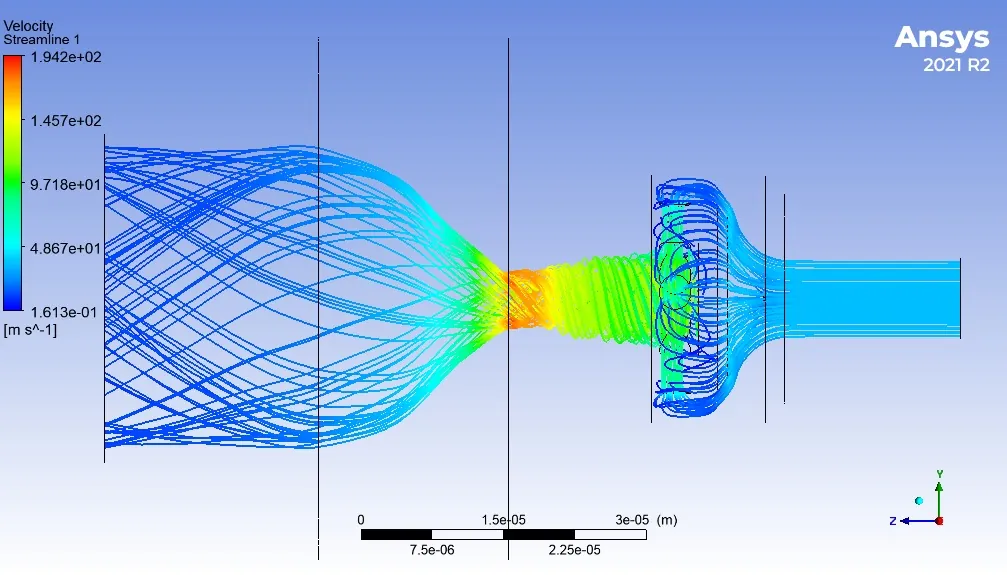
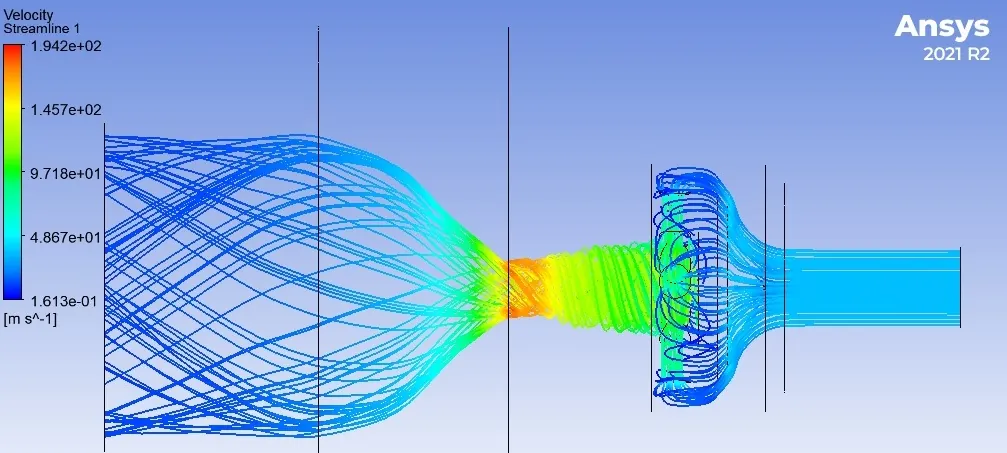
chore(site): tidy publication, schema and Boitatá before push
Exclude docs/, screenshots/, node_modules/ and *.mjs from the
published site, and drop the IT & Cyber Markdown résumés and its
llms.txt entry while the page is noindex (SKIP flag in the generator).

In JSON-LD, list EESC-USP as affiliation instead of alumniOf, since
the degree is in progress, and add author affiliations to the EPTT
paper, now shown on the Aero card.

State that the Boitatá vortex injector was designed by the author,
remove the Mach figure and reconvert the two cropped CFD images.

Refs: S5.1

diff --git a/aero/index.html b/aero/index.html
@@ -39,14 +39,16 @@
     "url": "https://igor-de-melo.github.io/aero/",
     "description": "Aeronautical Engineering student at EESC-USP (in progress), with a year of exchange at École Centrale de Marseille and a special studies certificate in Computational Fluid Dynamics (CFD) at ICMC-USP. Worked on propulsion, flight mechanics, aerostructures and systems engineering in competition teams, with three titles at the Latin American Space Challenge (LASC), and currently manages an autonomous fixed-wing UAV (unmanned aerial vehicle) project at the SEMEAR group. Research in turbulent flow simulation (LES), atmospheric modeling (WRF) and unsteady aerodynamic loads.",
     "email": "igor_amelo@usp.br",
+    "affiliation": [
+     {
+      "@type": "CollegeOrUniversity",
+      "name": "São Carlos School of Engineering, University of São Paulo"
+     }
+    ],
     "alumniOf": [
      {
       "@type": "CollegeOrUniversity",
       "name": "École Centrale de Marseille"
-     },
-     {
-      "@type": "CollegeOrUniversity",
-      "name": "São Carlos School of Engineering, University of São Paulo"
      }
     ],
     "knowsAbout": [
@@ -103,19 +105,35 @@
    "author": [
     {
      "@type": "Person",
-     "name": "Igor Augusto de Melo"
+     "name": "Igor Augusto de Melo",
+     "affiliation": {
+      "@type": "Organization",
+      "name": "EESC-USP"
+     }
     },
     {
      "@type": "Person",
-     "name": "Livia S. Freire"
+     "name": "Livia S. Freire",
+     "affiliation": {
+      "@type": "Organization",
+      "name": "ICMC-USP"
+     }
     },
     {
      "@type": "Person",
-     "name": "Leandro Franco de Souza"
+     "name": "Leandro Franco de Souza",
+     "affiliation": {
+      "@type": "Organization",
+      "name": "ICMC-USP"
+     }
     },
     {
      "@type": "Person",
-     "name": "Matheus Tozo de Araujo"
+     "name": "Matheus Tozo de Araujo",
+     "affiliation": {
+      "@type": "Organization",
+      "name": "IFPR"
+     }
     }
    ],
    "isPartOf": {
@@ -589,20 +607,19 @@
 
       <article class="project glass media-item" data-item="project">
         <figure class="gallery media-item__fig" data-gallery>
-          <button type="button" class="gallery-main" aria-haspopup="dialog"><img src="../assets/img/topus/boitata-injector-velocity.webp" width="1007" height="575" alt="Campo de velocidade, em m/s em cores num corte do injetor, com escala de cores e a marca Ansys" data-alt-pt-br="Campo de velocidade, em m/s em cores num corte do injetor, com escala de cores e a marca Ansys" data-alt-en="Colored field of velocity, in m/s in a section of the injector, with a color scale and the Ansys mark" data-alt-fr="Champ de vitesse, en m/s en couleurs dans une coupe de l’injecteur, avec une échelle de couleurs et la marque Ansys" loading="lazy"><span class="sr"><span lang="pt-BR">Ampliar imagem</span><span lang="en">Enlarge image</span><span lang="fr">Agrandir l’image</span></span></button>
+          <button type="button" class="gallery-main" aria-haspopup="dialog"><img src="../assets/img/topus/boitata-injector-velocity.webp" width="1007" height="454" alt="Campo de velocidade, em m/s em cores num corte do injetor, com escala de cores e a marca Ansys" data-alt-pt-br="Campo de velocidade, em m/s em cores num corte do injetor, com escala de cores e a marca Ansys" data-alt-en="Colored field of velocity, in m/s in a section of the injector, with a color scale and the Ansys mark" data-alt-fr="Champ de vitesse, en m/s en couleurs dans une coupe de l’injecteur, avec une échelle de couleurs et la marque Ansys" loading="lazy"><span class="sr"><span lang="pt-BR">Ampliar imagem</span><span lang="en">Enlarge image</span><span lang="fr">Agrandir l’image</span></span></button>
           <div class="gallery-thumbs">
-            <button type="button" class="gallery-thumb" aria-pressed="true" data-src="../assets/img/topus/boitata-injector-velocity.webp" data-w="1007" data-h="575" data-cap-pt-br="CFD do injetor: velocidade" data-cap-en="Injector CFD: velocity" data-cap-fr="CFD de l’injecteur&nbsp;: vitesse"><img src="../assets/img/topus/boitata-injector-velocity.webp" width="1007" height="575" alt="Campo de velocidade, em m/s em cores num corte do injetor, com escala de cores e a marca Ansys" data-alt-pt-br="Campo de velocidade, em m/s em cores num corte do injetor, com escala de cores e a marca Ansys" data-alt-en="Colored field of velocity, in m/s in a section of the injector, with a color scale and the Ansys mark" data-alt-fr="Champ de vitesse, en m/s en couleurs dans une coupe de l’injecteur, avec une échelle de couleurs et la marque Ansys" loading="lazy"><span class="sr"><span lang="pt-BR">Ver imagem 1</span><span lang="en">Show image 1</span><span lang="fr">Voir l’image 1</span></span></button>
-            <button type="button" class="gallery-thumb" aria-pressed="false" data-src="../assets/img/topus/boitata-injector-streamlines.webp" data-w="1007" data-h="575" data-cap-pt-br="CFD do injetor: linhas de corrente" data-cap-en="Injector CFD: streamlines" data-cap-fr="CFD de l’injecteur&nbsp;: lignes de courant"><img src="../assets/img/topus/boitata-injector-streamlines.webp" width="1007" height="575" alt="Linhas de corrente coloridas pela velocidade, em m/s, que convergem para uma garganta e giram depois dela, com a marca Ansys" data-alt-pt-br="Linhas de corrente coloridas pela velocidade, em m/s, que convergem para uma garganta e giram depois dela, com a marca Ansys" data-alt-en="Streamlines colored by velocity, in m/s, converging into a throat and swirling after it, with the Ansys mark" data-alt-fr="Lignes de courant colorées par la vitesse, en m/s, qui convergent vers un col puis tourbillonnent, avec la marque Ansys" loading="lazy"><span class="sr"><span lang="pt-BR">Ver imagem 2</span><span lang="en">Show image 2</span><span lang="fr">Voir l’image 2</span></span></button>
-            <button type="button" class="gallery-thumb" aria-pressed="false" data-src="../assets/img/topus/boitata-injector-mach.webp" data-w="953" data-h="559" data-cap-pt-br="CFD do injetor: número de Mach" data-cap-en="Injector CFD: Mach number" data-cap-fr="CFD de l’injecteur&nbsp;: nombre de Mach"><img src="../assets/img/topus/boitata-injector-mach.webp" width="953" height="559" alt="Campo de número de Mach em cores num corte do injetor, com escala de cores e a marca Ansys" data-alt-pt-br="Campo de número de Mach em cores num corte do injetor, com escala de cores e a marca Ansys" data-alt-en="Colored field of Mach number in a section of the injector, with a color scale and the Ansys mark" data-alt-fr="Champ de nombre de Mach en couleurs dans une coupe de l’injecteur, avec une échelle de couleurs et la marque Ansys" loading="lazy"><span class="sr"><span lang="pt-BR">Ver imagem 3</span><span lang="en">Show image 3</span><span lang="fr">Voir l’image 3</span></span></button>
+            <button type="button" class="gallery-thumb" aria-pressed="true" data-src="../assets/img/topus/boitata-injector-velocity.webp" data-w="1007" data-h="454" data-cap-pt-br="CFD do injetor: velocidade" data-cap-en="Injector CFD: velocity" data-cap-fr="CFD de l’injecteur&nbsp;: vitesse"><img src="../assets/img/topus/boitata-injector-velocity.webp" width="1007" height="454" alt="Campo de velocidade, em m/s em cores num corte do injetor, com escala de cores e a marca Ansys" data-alt-pt-br="Campo de velocidade, em m/s em cores num corte do injetor, com escala de cores e a marca Ansys" data-alt-en="Colored field of velocity, in m/s in a section of the injector, with a color scale and the Ansys mark" data-alt-fr="Champ de vitesse, en m/s en couleurs dans une coupe de l’injecteur, avec une échelle de couleurs et la marque Ansys" loading="lazy"><span class="sr"><span lang="pt-BR">Ver imagem 1</span><span lang="en">Show image 1</span><span lang="fr">Voir l’image 1</span></span></button>
+            <button type="button" class="gallery-thumb" aria-pressed="false" data-src="../assets/img/topus/boitata-injector-streamlines.webp" data-w="1007" data-h="453" data-cap-pt-br="CFD do injetor: linhas de corrente" data-cap-en="Injector CFD: streamlines" data-cap-fr="CFD de l’injecteur&nbsp;: lignes de courant"><img src="../assets/img/topus/boitata-injector-streamlines.webp" width="1007" height="453" alt="Linhas de corrente coloridas pela velocidade, em m/s, que convergem para uma garganta e giram depois dela, com a marca Ansys" data-alt-pt-br="Linhas de corrente coloridas pela velocidade, em m/s, que convergem para uma garganta e giram depois dela, com a marca Ansys" data-alt-en="Streamlines colored by velocity, in m/s, converging into a throat and swirling after it, with the Ansys mark" data-alt-fr="Lignes de courant colorées par la vitesse, en m/s, qui convergent vers un col puis tourbillonnent, avec la marque Ansys" loading="lazy"><span class="sr"><span lang="pt-BR">Ver imagem 2</span><span lang="en">Show image 2</span><span lang="fr">Voir l’image 2</span></span></button>
           </div>
-          <figcaption><span lang="pt-BR"><span class="gallery-c">CFD do injetor: velocidade</span><span class="gallery-n">, imagem <span class="gallery-i">1</span> de 3</span></span><span lang="en"><span class="gallery-c">Injector CFD: velocity</span><span class="gallery-n">, image <span class="gallery-i">1</span> of 3</span></span><span lang="fr"><span class="gallery-c">CFD de l’injecteur&nbsp;: vitesse</span><span class="gallery-n">, image <span class="gallery-i">1</span> sur 3</span></span></figcaption>
+          <figcaption><span lang="pt-BR"><span class="gallery-c">CFD do injetor: velocidade</span><span class="gallery-n">, imagem <span class="gallery-i">1</span> de 2</span></span><span lang="en"><span class="gallery-c">Injector CFD: velocity</span><span class="gallery-n">, image <span class="gallery-i">1</span> of 2</span></span><span lang="fr"><span class="gallery-c">CFD de l’injecteur&nbsp;: vitesse</span><span class="gallery-n">, image <span class="gallery-i">1</span> sur 2</span></span></figcaption>
         </figure>
         <div class="project-main">
           <h3 data-f="title"><span lang="pt-BR">Motor híbrido Boitatá</span><span lang="en">Boitatá hybrid rocket motor</span><span lang="fr">Moteur hybride Boitatá</span></h3>
           <p class="org" data-f="org">TOPUS<span class="org-sep t-only">, </span><span class="org-sep s-only"> · </span><span class="org-p" data-f="period"><time datetime="2020">2020</time> – <time datetime="2023">2023</time></span></p>
           <dl class="par">
             <div><dt><span lang="pt-BR">Problema</span><span lang="en">Problem</span><span lang="fr">Problème</span></dt><dd data-f="desc"><span lang="pt-BR">Levar o oxidante com segurança até a câmara de combustão de um motor-foguete híbrido.</span><span lang="en">Deliver the oxidizer safely to the combustion chamber of a hybrid rocket motor.</span><span lang="fr">Acheminer l’oxydant en toute sécurité jusqu’à la chambre de combustion d’un moteur-fusée hybride.</span></dd></div>
-            <div><dt><span lang="pt-BR">Abordagem</span><span lang="en">Approach</span><span lang="fr">Approche</span></dt><dd data-f="desc"><span lang="pt-BR">Na equipe de injeção de oxidante, projetei e testei o tanque, a tubulação e as válvulas, e trabalhei no projeto do injetor de vórtice para óxido nitroso, com o tanque de abastecimento a 60&nbsp;bar e a câmara de combustão a 30&nbsp;bar. Fiz as simulações de CFD do injetor no ANSYS CFX.</span><span lang="en">On the oxidizer injection team, I designed and tested the tank, piping and valves, and worked on the design of the swirl injector for nitrous oxide, with the supply tank at 60&nbsp;bar and the combustion chamber at 30&nbsp;bar. I ran the CFD simulations of the injector in ANSYS CFX.</span><span lang="fr">Au sein de l’équipe injection d’oxydant, j’ai conçu et testé le réservoir, la tuyauterie et les vannes, et j’ai travaillé à la conception de l’injecteur tourbillonnaire pour le protoxyde d’azote, avec le réservoir d’alimentation à 60&nbsp;bar et la chambre de combustion à 30&nbsp;bar. J’ai réalisé les simulations CFD de l’injecteur sous ANSYS CFX.</span></dd></div>
+            <div><dt><span lang="pt-BR">Abordagem</span><span lang="en">Approach</span><span lang="fr">Approche</span></dt><dd data-f="desc"><span lang="pt-BR">Na equipe de injeção de oxidante, projetei e testei o tanque, a tubulação e as válvulas, e projetei o injetor de vórtice para óxido nitroso, com o tanque de abastecimento a 60&nbsp;bar e a câmara de combustão a 30&nbsp;bar. Fiz as simulações de CFD do injetor no ANSYS CFX.</span><span lang="en">On the oxidizer injection team, I designed and tested the tank, piping and valves, and I designed the vortex injector for nitrous oxide, with the supply tank at 60&nbsp;bar and the combustion chamber at 30&nbsp;bar. I ran the CFD simulations of the injector in ANSYS CFX.</span><span lang="fr">Au sein de l’équipe injection d’oxydant, j’ai conçu et testé le réservoir, la tuyauterie et les vannes, et j’ai conçu l’injecteur à vortex pour le protoxyde d’azote, avec le réservoir d’alimentation à 60&nbsp;bar et la chambre de combustion à 30&nbsp;bar. J’ai réalisé les simulations CFD de l’injecteur sous ANSYS CFX.</span></dd></div>
             <div class="par-result"><dt><span lang="pt-BR">Resultado</span><span lang="en">Result</span><span lang="fr">Résultat</span></dt><dd data-f="desc"><span lang="pt-BR">O projeto recebeu, em 2020, uma bolsa de Bancada de Testes da Agência Espacial Brasileira (AEB).</span><span lang="en">The project received a test stand grant from the Brazilian Space Agency (AEB) in 2020.</span><span lang="fr">Le projet a obtenu en 2020 un financement «&nbsp;Banc d’essai&nbsp;» de l’Agence spatiale brésilienne (AEB).</span></dd></div>
             <div class="par-stack"><dt><span lang="pt-BR">Stack</span><span lang="en">Stack</span><span lang="fr">Stack</span></dt><dd>
               <ul class="chips" data-f="stack" lang="pt-BR"><li>ANSYS CFX</li><li>CFD</li><li>Termodinâmica</li><li>Modelagem numérica</li><li>Ensaios experimentais</li></ul>
@@ -639,9 +656,9 @@
             </span>
           </a>
           <h3 data-f="title"><span lang="pt-BR">Simulação de escoamentos turbulentos</span><span lang="en">Turbulent flow simulation</span><span lang="fr">Simulation d’écoulements turbulents</span></h3>
-          <p data-f="desc" lang="pt-BR">Simulação de grandes escalas (LES) de escoamento turbulento em canal com força de Coriolis, com número de Reynolds de atrito 180, malha LES de 64 × 64 × 64 e quatro números de rotação (Ro) (0; 0,018; 0,054; 0,091), comparada com simulação numérica direta (DNS). Artigo no EPTT 2024. Autores: Igor Augusto de Melo, Livia S. Freire, Leandro Franco de Souza e Matheus Tozo de Araujo. Desenvolvimento e execução de rotinas numéricas em ambiente de HPC.</p>
-          <p data-f="desc" lang="en">Large-eddy simulation (LES) of turbulent channel flow with Coriolis force, at friction Reynolds number 180, on a 64 × 64 × 64 LES grid and four rotation numbers (Ro) (0, 0.018, 0.054, 0.091), compared with direct numerical simulation (DNS). Paper at EPTT 2024. Authors: Igor Augusto de Melo, Livia S. Freire, Leandro Franco de Souza and Matheus Tozo de Araujo. Development and execution of numerical routines in HPC environments.</p>
-          <p data-f="desc" lang="fr">Simulation des grandes échelles (LES) d’un écoulement turbulent en canal avec force de Coriolis, à un nombre de Reynolds de frottement de 180, avec un maillage LES de 64 × 64 × 64 et quatre nombres de rotation (Ro) (0&nbsp;; 0,018&nbsp;; 0,054&nbsp;; 0,091), comparée à la simulation numérique directe (DNS). Article à l’EPTT 2024. Auteurs&nbsp;: Igor Augusto de Melo, Livia S. Freire, Leandro Franco de Souza et Matheus Tozo de Araujo. Développement et exécution de routines numériques en environnement HPC.</p>
+          <p data-f="desc" lang="pt-BR">Simulação de grandes escalas (LES) de escoamento turbulento em canal com força de Coriolis, com número de Reynolds de atrito 180, malha LES de 64 × 64 × 64 e quatro números de rotação (Ro) (0; 0,018; 0,054; 0,091), comparada com simulação numérica direta (DNS). Artigo no EPTT 2024. Autores: Igor Augusto de Melo (EESC-USP), Livia S. Freire e Leandro Franco de Souza (ICMC-USP) e Matheus Tozo de Araujo (IFPR). Desenvolvimento e execução de rotinas numéricas em ambiente de HPC.</p>
+          <p data-f="desc" lang="en">Large-eddy simulation (LES) of turbulent channel flow with Coriolis force, at friction Reynolds number 180, on a 64 × 64 × 64 LES grid and four rotation numbers (Ro) (0, 0.018, 0.054, 0.091), compared with direct numerical simulation (DNS). Paper at EPTT 2024. Authors: Igor Augusto de Melo (EESC-USP), Livia S. Freire and Leandro Franco de Souza (ICMC-USP), and Matheus Tozo de Araujo (IFPR). Development and execution of numerical routines in HPC environments.</p>
+          <p data-f="desc" lang="fr">Simulation des grandes échelles (LES) d’un écoulement turbulent en canal avec force de Coriolis, à un nombre de Reynolds de frottement de 180, avec un maillage LES de 64 × 64 × 64 et quatre nombres de rotation (Ro) (0&nbsp;; 0,018&nbsp;; 0,054&nbsp;; 0,091), comparée à la simulation numérique directe (DNS). Article à l’EPTT 2024. Auteurs&nbsp;: Igor Augusto de Melo (EESC-USP), Livia S. Freire et Leandro Franco de Souza (ICMC-USP) et Matheus Tozo de Araujo (IFPR). Développement et exécution de routines numériques en environnement HPC.</p>
           <ul class="chips" data-f="stack" lang="pt-BR"><li>LES</li><li>Modelos de submalha</li><li>Fortran</li><li>HPC</li><li>Linux</li></ul>
           <ul class="chips" data-f="stack" lang="en"><li>LES</li><li>Subgrid-scale models</li><li>Fortran</li><li>HPC</li><li>Linux</li></ul>
           <ul class="chips" data-f="stack" lang="fr"><li>LES</li><li>Modèles de sous-maille</li><li>Fortran</li><li>HPC</li><li>Linux</li></ul>

diff --git a/it-security/index.html b/it-security/index.html
@@ -11,9 +11,6 @@
 <meta property="og:description" content="Igor Augusto de Melo, disponível para vagas júnior em cibersegurança: Linux, Bash, SSH, OAuth2, Python e automação em servidores na nuvem.">
 <meta name="robots" content="noindex">
 <link rel="canonical" href="https://igor-de-melo.github.io/it-security/">
-<link rel="alternate" type="text/markdown" hreflang="pt-BR" href="cv.pt-BR.md">
-<link rel="alternate" type="text/markdown" hreflang="en" href="cv.en.md">
-<link rel="alternate" type="text/markdown" hreflang="fr" href="cv.fr.md">
 <link rel="icon" type="image/svg+xml" href="../assets/favicon.svg">
 <meta property="og:title" content="Igor Augusto de Melo | TI e Cibersegurança">
 <meta property="og:type" content="website">
@@ -39,14 +36,16 @@
     "url": "https://igor-de-melo.github.io/it-security/",
     "description": "Aeronautical Engineering student at EESC-USP (in progress), with daily use of Linux and the command line, writing Bash and Python scripts to run and post-process WRF simulations. Builds a personal AI-assisted email triage system with Python automation.",
     "email": "igor_amelo@usp.br",
+    "affiliation": [
+     {
+      "@type": "CollegeOrUniversity",
+      "name": "São Carlos School of Engineering, University of São Paulo"
+     }
+    ],
     "alumniOf": [
      {
       "@type": "CollegeOrUniversity",
       "name": "École Centrale de Marseille"
-     },
-     {
-      "@type": "CollegeOrUniversity",
-      "name": "São Carlos School of Engineering, University of São Paulo"
      }
     ],
     "knowsAbout": [

diff --git a/data/index.html b/data/index.html
@@ -39,14 +39,16 @@
     "url": "https://igor-de-melo.github.io/data/",
     "description": "Aeronautical Engineering student at EESC-USP (in progress), transitioning into data and IT. Experience as a Data Analyst at Pilea Labs, designing and building the MySQL databases (on Google Cloud) and SQL queries behind the platform’s lists, tables and charts. Machine Learning and Reinforcement Learning courses (Data ICMC-USP, 2025) and hands-on scientific computing in Monte Carlo simulation, optimization and uncertainty analysis. Builds personal automation projects, such as an AI-assisted email triage system.",
     "email": "igor_amelo@usp.br",
+    "affiliation": [
+     {
+      "@type": "CollegeOrUniversity",
+      "name": "São Carlos School of Engineering, University of São Paulo"
+     }
+    ],
     "alumniOf": [
      {
       "@type": "CollegeOrUniversity",
       "name": "École Centrale de Marseille"
-     },
-     {
-      "@type": "CollegeOrUniversity",
-      "name": "São Carlos School of Engineering, University of São Paulo"
      }
     ],
     "knowsAbout": [

diff --git a/CLAUDE.md b/CLAUDE.md
@@ -19,7 +19,7 @@ Site estático (GitHub Pages, repositório de usuário). Sem build, sem framewor
 - Home: `index.html` e `index.template.html` são iguais e editados juntos. Animações da cadeia só com transform/opacity; colormap viridis.
 - Visões (docs/simple-view-spec.md): `<html data-view="simple|themed">`, posto por script no `<head>` (?view= > localStorage "view" > themed). A Home é sempre Temático (ignora `?view=` e a preferência salva, não tem seletor); a entrada para o Simplificado é o botão `.hcard-simple` abaixo de cada cartão (`?view=simple`), e o cartão abre `?view=themed`. O Simplificado é a camada `[data-view="simple"]` no fim de `assets/style.css`: tokens neutros, sem animação nem decoração. Todo componente novo precisa ficar legível nas duas visões. `.s-only` só aparece no Simplificado e `.t-only` só no Temático; `data-simple-before="id"` move a seção para antes desse id no Simplificado (`assets/site.js`). O CV das páginas de área são os blocos "S2", "S2.1" e "S3" do CSS (neutros `--n-*`, um acento por página em `--accent`, `--tint` e `--ac30`; régua `.s-nav` com scroll-spy; sem animação nem transição); Dados e TI entram no S3.
 - Campos do CV (base do Simplificado e dos arquivos para máquinas): nas três páginas de área, cada seção tem `data-section="summary|skills|experience|projects|research|education|courses|languages|contact|volunteering"`, cada item tem `data-item="experience|project|research|education|course|skill-group|volunteering"` e cada valor tem `data-f="title|org|place|period|status|desc|bullet|stack|link"` (`status` é o estado de um projeto, como "Em desenvolvimento"; projeto com `status` fica sem `period`). O resumo do CV é um bloco `.s-summary.s-only` com `data-section="summary"` dentro de Sobre (o primeiro parágrafo do Sobre é `.t-only` e não tem `data-f`). Cada página de área tem dois `h1`: o título da área (`.t-only`) e o nome (`.s-name.s-only`), com o título da área repetido em `p.s-area.s-only`. Datas em `<time datetime="AAAA-MM">` (só o ano quando não há mês; "atual" sem `datetime`). Sintaxe de código (`<span class="sx">`, `.fn`, `.k`), prompts e rótulos de painel nunca recebem `data-f`; em TI e Ciber o período é um `<p class="when s-only" data-f="period">` próprio, porque o rótulo do painel é decorativo. Trechos de código de exemplo ficam em `<details class="sample" open>` com `<summary class="s-only">` (aberto no Temático, recolhido no Simplificado pelo `site.js`). O Simplificado de Dados e TI e Ciber é o bloco "S3" do CSS e usa esses atributos como seletores; `check-parity` confere a contagem por língua e `check-views`, que nenhum campo fica oculto. Item novo: marcar os campos nas três línguas.
-- Camada para máquinas: `tools/build-cv.mjs` (`npm run build:cv`) lê os campos `data-f` visíveis no Simplificado e gera `<área>/cv.pt-BR.md`, `cv.en.md` e `cv.fr.md` e o bloco JSON-LD de cada página de área (ProfilePage > Person, e ScholarlyArticle quando o cartão do artigo está na página). Depois de mudar conteúdo de uma página de área, rodar o gerador e commitar a saída; `check-cv-sync` falha se estiver desatualizada. Regra: máquina e humano leem o mesmo texto (nada no Markdown, no JSON-LD nem no `llms.txt` que não esteja visível na página; sem telefone; e-mail só o que a página mostra). `llms.txt`, `robots.txt` e `sitemap.xml` são escritos à mão.
+- Camada para máquinas: `tools/build-cv.mjs` (`npm run build:cv`) lê os campos `data-f` visíveis no Simplificado e gera `<área>/cv.pt-BR.md`, `cv.en.md` e `cv.fr.md` e o bloco JSON-LD de cada página de área (menos as listadas em `SKIP` no gerador: hoje `it-security`, enquanto tiver noindex) (ProfilePage > Person, e ScholarlyArticle quando o cartão do artigo está na página). Depois de mudar conteúdo de uma página de área, rodar o gerador e commitar a saída; `check-cv-sync` falha se estiver desatualizada. Regra: máquina e humano leem o mesmo texto (nada no Markdown, no JSON-LD nem no `llms.txt` que não esteja visível na página; sem telefone; e-mail só o que a página mostra). `llms.txt`, `robots.txt` e `sitemap.xml` são escritos à mão.
 - Tipografia: todo font-size usa os tokens `--fs-*` e `--lh-*` (exceções: hero da Home e desenhos em SVG, dump hexadecimal e retrato ASCII).
 
 ## Commits

diff --git a/aero/cv.fr.md b/aero/cv.fr.md
@@ -108,7 +108,7 @@ TOPUS · 2020 – 2023
 
 **Problème :** Acheminer l’oxydant en toute sécurité jusqu’à la chambre de combustion d’un moteur-fusée hybride.
 
-**Approche :** Au sein de l’équipe injection d’oxydant, j’ai conçu et testé le réservoir, la tuyauterie et les vannes, et j’ai travaillé à la conception de l’injecteur tourbillonnaire pour le protoxyde d’azote, avec le réservoir d’alimentation à 60 bar et la chambre de combustion à 30 bar. J’ai réalisé les simulations CFD de l’injecteur sous ANSYS CFX.
+**Approche :** Au sein de l’équipe injection d’oxydant, j’ai conçu et testé le réservoir, la tuyauterie et les vannes, et j’ai conçu l’injecteur à vortex pour le protoxyde d’azote, avec le réservoir d’alimentation à 60 bar et la chambre de combustion à 30 bar. J’ai réalisé les simulations CFD de l’injecteur sous ANSYS CFX.
 
 **Résultat :** Le projet a obtenu en 2020 un financement « Banc d’essai » de l’Agence spatiale brésilienne (AEB).
 
@@ -122,7 +122,7 @@ ICMC-USP, bourse FAPESP · juil. 2023 – déc. 2024
 
 - [Article à l’EPTT 2024 (PDF)](https://igor-de-melo.github.io/assets/docs/EPTT2024_paper.pdf): Turbulent Channel flow with Coriolis force using Large-Eddy Simulation. Article, EPTT 2024, en anglais.
 
-Simulation des grandes échelles (LES) d’un écoulement turbulent en canal avec force de Coriolis, à un nombre de Reynolds de frottement de 180, avec un maillage LES de 64 × 64 × 64 et quatre nombres de rotation (Ro) (0 ; 0,018 ; 0,054 ; 0,091), comparée à la simulation numérique directe (DNS). Article à l’EPTT 2024. Auteurs : Igor Augusto de Melo, Livia S. Freire, Leandro Franco de Souza et Matheus Tozo de Araujo. Développement et exécution de routines numériques en environnement HPC.
+Simulation des grandes échelles (LES) d’un écoulement turbulent en canal avec force de Coriolis, à un nombre de Reynolds de frottement de 180, avec un maillage LES de 64 × 64 × 64 et quatre nombres de rotation (Ro) (0 ; 0,018 ; 0,054 ; 0,091), comparée à la simulation numérique directe (DNS). Article à l’EPTT 2024. Auteurs : Igor Augusto de Melo (EESC-USP), Livia S. Freire et Leandro Franco de Souza (ICMC-USP) et Matheus Tozo de Araujo (IFPR). Développement et exécution de routines numériques en environnement HPC.
 
 Stack : LES, Modèles de sous-maille, Fortran, HPC, Linux
 

diff --git a/aero/cv.pt-BR.md b/aero/cv.pt-BR.md
@@ -108,7 +108,7 @@ TOPUS · 2020 – 2023
 
 **Problema:** Levar o oxidante com segurança até a câmara de combustão de um motor-foguete híbrido.
 
-**Abordagem:** Na equipe de injeção de oxidante, projetei e testei o tanque, a tubulação e as válvulas, e trabalhei no projeto do injetor de vórtice para óxido nitroso, com o tanque de abastecimento a 60 bar e a câmara de combustão a 30 bar. Fiz as simulações de CFD do injetor no ANSYS CFX.
+**Abordagem:** Na equipe de injeção de oxidante, projetei e testei o tanque, a tubulação e as válvulas, e projetei o injetor de vórtice para óxido nitroso, com o tanque de abastecimento a 60 bar e a câmara de combustão a 30 bar. Fiz as simulações de CFD do injetor no ANSYS CFX.
 
 **Resultado:** O projeto recebeu, em 2020, uma bolsa de Bancada de Testes da Agência Espacial Brasileira (AEB).
 
@@ -122,7 +122,7 @@ ICMC-USP, bolsa FAPESP · jul. 2023 – dez. 2024
 
 - [Artigo no EPTT 2024 (PDF)](https://igor-de-melo.github.io/assets/docs/EPTT2024_paper.pdf): Turbulent Channel flow with Coriolis force using Large-Eddy Simulation. Artigo, EPTT 2024, em inglês.
 
-Simulação de grandes escalas (LES) de escoamento turbulento em canal com força de Coriolis, com número de Reynolds de atrito 180, malha LES de 64 × 64 × 64 e quatro números de rotação (Ro) (0; 0,018; 0,054; 0,091), comparada com simulação numérica direta (DNS). Artigo no EPTT 2024. Autores: Igor Augusto de Melo, Livia S. Freire, Leandro Franco de Souza e Matheus Tozo de Araujo. Desenvolvimento e execução de rotinas numéricas em ambiente de HPC.
+Simulação de grandes escalas (LES) de escoamento turbulento em canal com força de Coriolis, com número de Reynolds de atrito 180, malha LES de 64 × 64 × 64 e quatro números de rotação (Ro) (0; 0,018; 0,054; 0,091), comparada com simulação numérica direta (DNS). Artigo no EPTT 2024. Autores: Igor Augusto de Melo (EESC-USP), Livia S. Freire e Leandro Franco de Souza (ICMC-USP) e Matheus Tozo de Araujo (IFPR). Desenvolvimento e execução de rotinas numéricas em ambiente de HPC.
 
 Stack: LES, Modelos de submalha, Fortran, HPC, Linux
 

diff --git a/aero/cv.en.md b/aero/cv.en.md
@@ -108,7 +108,7 @@ TOPUS · 2020 – 2023
 
 **Problem:** Deliver the oxidizer safely to the combustion chamber of a hybrid rocket motor.
 
-**Approach:** On the oxidizer injection team, I designed and tested the tank, piping and valves, and worked on the design of the swirl injector for nitrous oxide, with the supply tank at 60 bar and the combustion chamber at 30 bar. I ran the CFD simulations of the injector in ANSYS CFX.
+**Approach:** On the oxidizer injection team, I designed and tested the tank, piping and valves, and I designed the vortex injector for nitrous oxide, with the supply tank at 60 bar and the combustion chamber at 30 bar. I ran the CFD simulations of the injector in ANSYS CFX.
 
 **Result:** The project received a test stand grant from the Brazilian Space Agency (AEB) in 2020.
 
@@ -122,7 +122,7 @@ ICMC-USP, FAPESP grant · Jul 2023 – Dec 2024
 
 - [Paper at EPTT 2024 (PDF)](https://igor-de-melo.github.io/assets/docs/EPTT2024_paper.pdf): Turbulent Channel flow with Coriolis force using Large-Eddy Simulation. Paper, EPTT 2024, in English.
 
-Large-eddy simulation (LES) of turbulent channel flow with Coriolis force, at friction Reynolds number 180, on a 64 × 64 × 64 LES grid and four rotation numbers (Ro) (0, 0.018, 0.054, 0.091), compared with direct numerical simulation (DNS). Paper at EPTT 2024. Authors: Igor Augusto de Melo, Livia S. Freire, Leandro Franco de Souza and Matheus Tozo de Araujo. Development and execution of numerical routines in HPC environments.
+Large-eddy simulation (LES) of turbulent channel flow with Coriolis force, at friction Reynolds number 180, on a 64 × 64 × 64 LES grid and four rotation numbers (Ro) (0, 0.018, 0.054, 0.091), compared with direct numerical simulation (DNS). Paper at EPTT 2024. Authors: Igor Augusto de Melo (EESC-USP), Livia S. Freire and Leandro Franco de Souza (ICMC-USP), and Matheus Tozo de Araujo (IFPR). Development and execution of numerical routines in HPC environments.
 
 Stack: LES, Subgrid-scale models, Fortran, HPC, Linux
 
